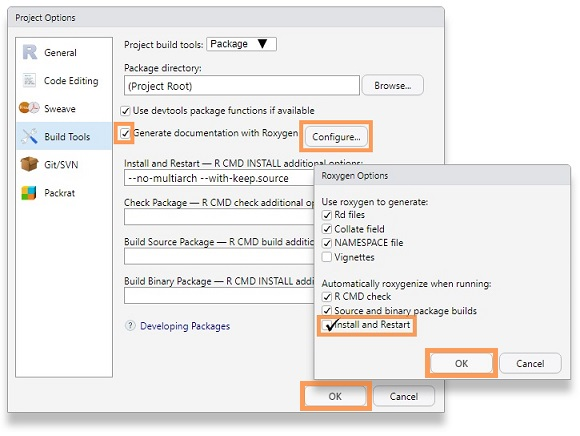
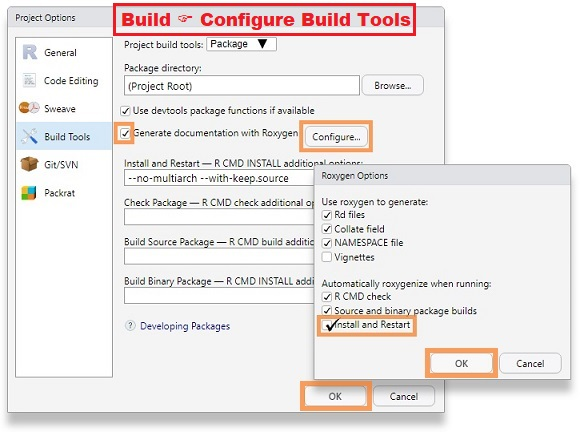
Updated slide and image for better layout.

Changed region(s): [[0.1862, 0.0, 0.7448, 0.0894]]

diff --git a/demos/packages/building_packages/building_r_packages.md b/demos/packages/building_packages/building_r_packages.md
@@ -170,8 +170,6 @@ Here are the steps we will take:
 
 ## Configure build tools
 
-"Build" → "Configure Build Tools" → [...]
-
 ![](rstudio_desktop_build_tools_roxygen_options_dialog.jpg)
 
 ## Adding documentation
@@ -192,12 +190,14 @@ your package.
 First, we will test the package with: 
 
      "Build" → "Test Package"
-     
+
 Then we will build the package with: 
 
      "Build" → "Clean and Rebuild"
 
-This will also install it into our local system and load it into memory.
+Finally, we prepare documentation and install the package with: 
+
+     "Build" → "Install and Restart"
 
 NOTE: Repeat these steps whenever you make changes to your package.
 
